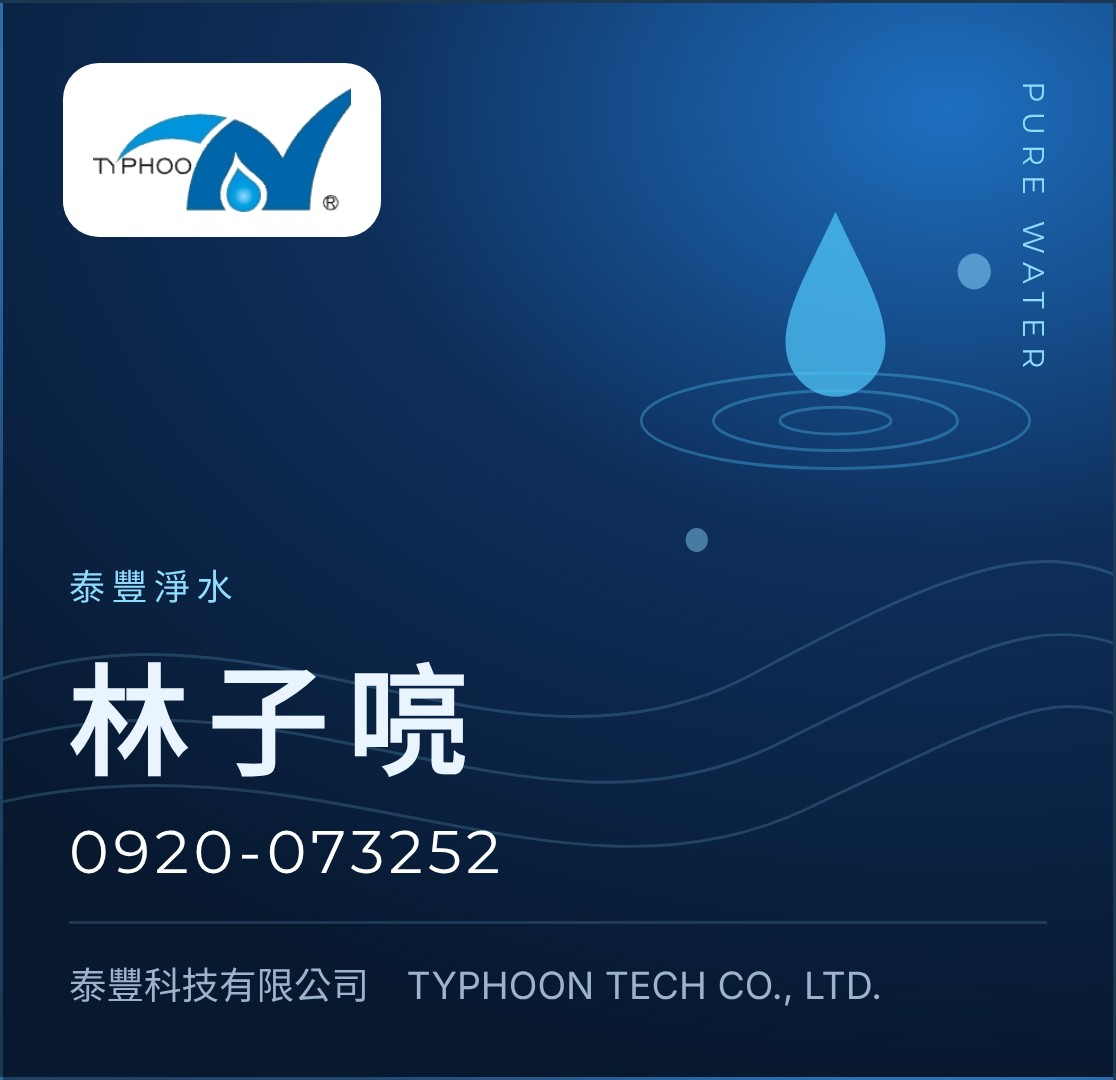
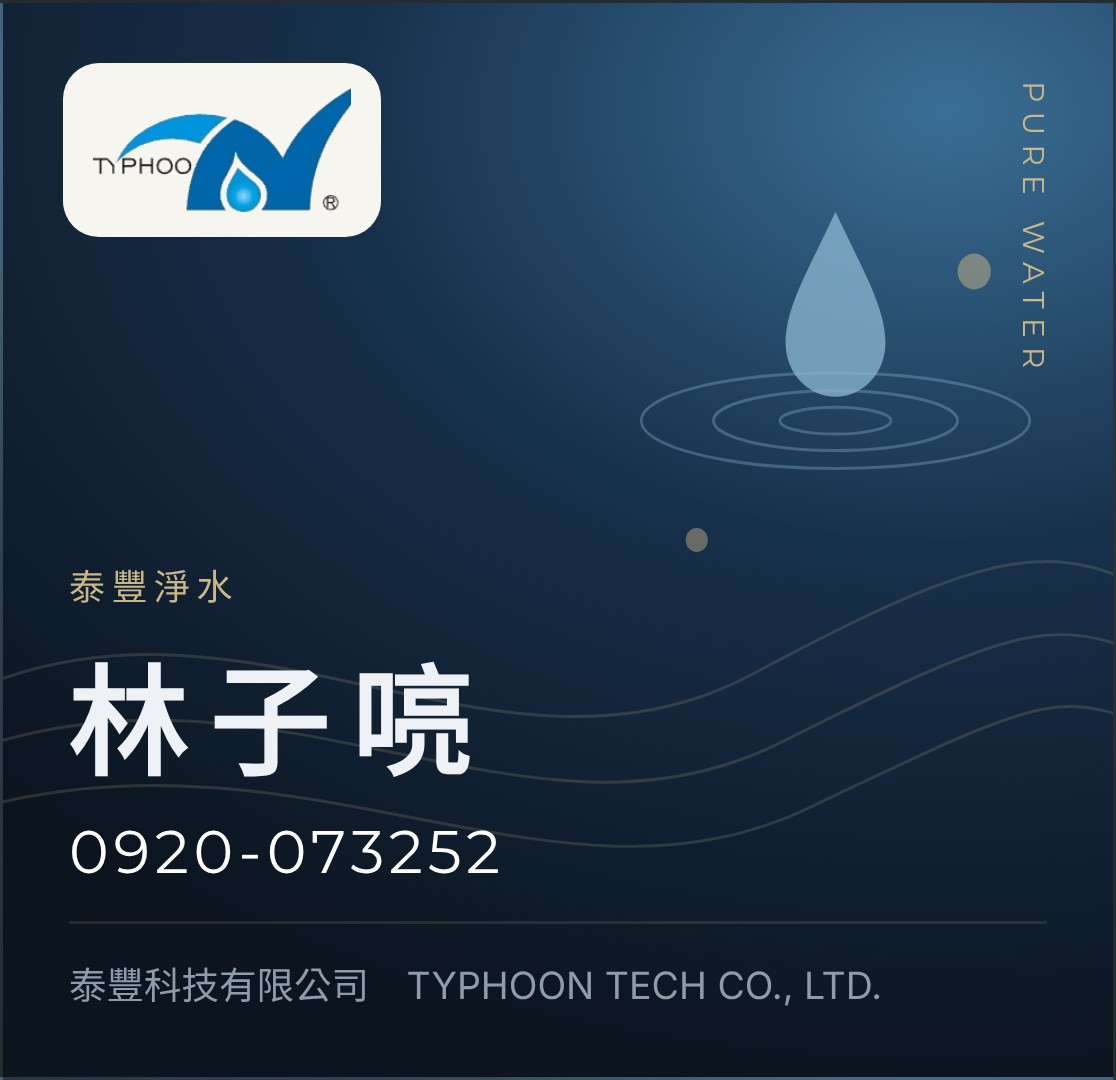
泰豐 v3: refined deep-navy / mist / champagne palette, serif headings
Claude-Session: https://claude.ai/code/session_01KkZnAjjDZFyUNm9XafeBwa

diff --git a/lin/v3/index.html b/lin/v3/index.html
@@ -4,31 +4,31 @@
 <meta charset="UTF-8">
 <meta name="viewport" content="width=device-width, initial-scale=1">
 <title>林子喨｜泰豐淨水 電子名片</title>
-<link href="https://fonts.googleapis.com/css2?family=Noto+Sans+TC:wght@400;500;700;900&family=Montserrat:wght@400;500;600;700&display=swap" rel="stylesheet">
+<link href="https://fonts.googleapis.com/css2?family=Noto+Serif+TC:wght@500;700&family=Noto+Sans+TC:wght@400;500;700;900&family=Montserrat:wght@400;500;600;700&display=swap" rel="stylesheet">
 <script charset="utf-8" src="https://static.line-scdn.net/liff/edge/2/sdk.js"></script>
 <style>
-:root{--bg:#07182F;--panel:#0E2544;--panel2:#13305A;--aqua:#4FC3F7;--aqua2:#8FDCFF;--txt:#EAF4FF;--mute:#9DB3CC;--line:rgba(143,220,255,.16)}
+:root{--bg:#0B141F;--panel:#121E2C;--panel2:#1A293B;--aqua:#8DB8D3;--aqua2:#CBB68A;--txt:#EEF2F6;--mute:#8E9BAB;--line:rgba(203,182,138,.14)}
 *{box-sizing:border-box;margin:0;padding:0}
 body{background:var(--bg);color:var(--txt);font-family:"Noto Sans TC",system-ui,sans-serif;-webkit-font-smoothing:antialiased;padding-bottom:92px}
 .wrap{max-width:440px;margin:0 auto;padding:16px 14px}
 /* 主卡 */
-.hero{position:relative;border-radius:24px;overflow:hidden;min-height:360px;background:radial-gradient(120% 90% at 85% 10%,#1E6FC0 0%,#0E2E5A 45%,#07182F 100%);border:1px solid var(--line)}
+.hero{position:relative;border-radius:24px;overflow:hidden;min-height:360px;background:radial-gradient(120% 90% at 85% 10%,#3A6E96 0%,#17304A 45%,#0B141F 100%);border:1px solid var(--line)}
 .hero svg{position:absolute;inset:0;width:100%;height:100%}
-.logo{position:absolute;left:20px;top:20px;background:#fff;border-radius:12px;padding:8px 10px}
+.logo{position:absolute;left:20px;top:20px;background:#F7F5F0;border-radius:12px;padding:8px 10px}
 .logo img{display:block;width:86px}
 .tag{position:absolute;right:20px;top:26px;font-family:Montserrat;font-size:10px;letter-spacing:.3em;color:var(--aqua2);writing-mode:vertical-rl}
 .who{position:absolute;left:22px;bottom:22px;right:22px}
 .who .role{font-size:12px;color:var(--aqua2);letter-spacing:.18em}
-.who .nm{font-size:40px;font-weight:900;letter-spacing:.16em;margin-top:6px}
+.who .nm{font-family:"Noto Serif TC",serif;font-size:40px;font-weight:700;letter-spacing:.18em;margin-top:6px}
 .who .ph{font-family:Montserrat;font-size:20px;letter-spacing:.08em;margin-top:6px;color:#fff}
 .who .co{font-size:12.5px;color:var(--mute);margin-top:10px;padding-top:10px;border-top:1px solid var(--line)}
 /* 分頁 */
 .tabs{display:flex;gap:6px;background:var(--panel);border:1px solid var(--line);border-radius:999px;padding:5px;margin:16px 0 14px;position:sticky;top:8px;z-index:3}
 .tabs button{flex:1;border:none;background:transparent;color:var(--mute);font:inherit;font-size:14px;padding:9px;border-radius:999px;cursor:pointer}
-.tabs button.on{background:linear-gradient(120deg,#1E6FC0,var(--aqua));color:#fff;font-weight:700}
+.tabs button.on{background:linear-gradient(120deg,#2E5878,#4D82A8);color:#fff;font-weight:700}
 .pane{display:none}.pane.on{display:block}
 .box{background:var(--panel);border:1px solid var(--line);border-radius:18px;padding:16px;margin-bottom:12px}
-.box h3{font-size:15px;margin-bottom:10px;color:#fff}
+.box h3{font-family:"Noto Serif TC",serif;font-weight:700;font-size:15.5px;letter-spacing:.06em;margin-bottom:10px;color:#fff}
 .box p{font-size:13px;color:var(--mute);line-height:1.8}
 .stats{display:grid;grid-template-columns:repeat(3,1fr);gap:8px}
 .stats div{background:var(--panel2);border-radius:14px;padding:12px 6px;text-align:center}
@@ -40,25 +40,25 @@ body{background:var(--bg);color:var(--txt);font-family:"Noto Sans TC",system-ui,
 .steps{counter-reset:s}
 .steps li{list-style:none;display:flex;gap:12px;padding:10px 0;border-bottom:1px dashed var(--line);font-size:13px}
 .steps li:last-child{border:none}
-.steps li::before{counter-increment:s;content:counter(s);width:26px;height:26px;border-radius:50%;background:rgba(79,195,247,.18);color:var(--aqua2);display:grid;place-items:center;font-family:Montserrat;font-weight:700;flex:0 0 auto}
+.steps li::before{counter-increment:s;content:counter(s);width:26px;height:26px;border-radius:50%;background:rgba(203,182,138,.16);color:var(--aqua2);display:grid;place-items:center;font-family:Montserrat;font-weight:700;flex:0 0 auto}
 .steps b{display:block;color:#fff}.steps small{color:var(--mute)}
 .row{display:flex;justify-content:space-between;gap:12px;padding:11px 0;border-bottom:1px solid var(--line);font-size:13px}
 .row:last-child{border:none}.row span{color:var(--mute);flex:0 0 auto}.row a{color:var(--aqua2);text-decoration:none}
 .btns{display:grid;grid-template-columns:1fr 1fr;gap:8px}
 .btns button,.btns a{border:1px solid var(--line);background:var(--panel2);color:#fff;border-radius:14px;padding:13px 8px;font:inherit;font-size:13.5px;text-align:center;text-decoration:none;cursor:pointer}
-.slogan{text-align:center;font-size:14px;letter-spacing:.14em;color:var(--aqua2);margin:18px 0 4px}
-.dock{position:fixed;left:0;right:0;bottom:0;padding:10px 14px calc(10px + env(safe-area-inset-bottom));background:rgba(7,24,47,.92);backdrop-filter:blur(10px);border-top:1px solid var(--line);display:flex;gap:8px;justify-content:center;z-index:5}
+.slogan{font-family:"Noto Serif TC",serif;text-align:center;font-size:14px;letter-spacing:.14em;color:var(--aqua2);margin:18px 0 4px}
+.dock{position:fixed;left:0;right:0;bottom:0;padding:10px 14px calc(10px + env(safe-area-inset-bottom));background:rgba(11,20,31,.92);backdrop-filter:blur(10px);border-top:1px solid var(--line);display:flex;gap:8px;justify-content:center;z-index:5}
 .dock a,.dock button{flex:1;max-width:140px;border:none;border-radius:14px;padding:12px 6px;font:inherit;font-weight:700;font-size:13.5px;text-align:center;text-decoration:none;cursor:pointer}
-.dock .call{background:var(--panel2);color:#fff}.dock .line{background:#06C755;color:#fff}.dock .share{background:linear-gradient(120deg,#1E6FC0,var(--aqua));color:#fff}
-.share1{width:100%;border:1px dashed rgba(143,220,255,.45);background:transparent;color:var(--aqua2);border-radius:14px;padding:12px;font:inherit;font-size:13.5px;margin-bottom:12px;cursor:pointer}
+.dock .call{background:var(--panel2);color:#fff}.dock .line{background:#1F8F50;color:#fff}.dock .share{background:linear-gradient(120deg,#2E5878,#4D82A8);color:#fff}
+.share1{width:100%;border:1px dashed rgba(203,182,138,.45);background:transparent;color:var(--aqua2);border-radius:14px;padding:12px;font:inherit;font-size:13.5px;margin-bottom:12px;cursor:pointer}
 .sheet{position:fixed;inset:0;background:rgba(0,0,0,.55);display:none;align-items:flex-end;justify-content:center;z-index:20}
 .sheet.on{display:flex}
 .sheet .panel{width:100%;max-width:440px;background:var(--panel);border-radius:22px 22px 0 0;padding:16px 14px calc(18px + env(safe-area-inset-bottom));border:1px solid var(--line)}
 .sheet .h{display:flex;justify-content:space-between;font-weight:700;margin:2px 4px 12px}.sheet .x{cursor:pointer;color:var(--mute)}
 .sheet button{display:block;width:100%;text-align:left;background:var(--panel2);border:1px solid var(--line);color:#fff;border-radius:14px;padding:12px 14px;margin-bottom:8px;font:inherit;cursor:pointer}
 .sheet button b{display:block;font-size:14.5px}.sheet button small{font-size:11.5px;color:var(--mute)}
-.sheet button[data-k=all]{background:linear-gradient(120deg,#1E6FC0,#4FC3F7);border:none}.sheet button[data-k=all] small{color:#E3F4FF}
-.toast{position:fixed;left:50%;bottom:90px;transform:translateX(-50%) translateY(20px);background:#fff;color:#07182F;font-size:13px;padding:10px 16px;border-radius:999px;opacity:0;transition:.25s;pointer-events:none;max-width:88%;text-align:center;z-index:9}
+.sheet button[data-k=all]{background:linear-gradient(120deg,#2E5878,#4D82A8);border:none}.sheet button[data-k=all] small{color:#F3EEE2}
+.toast{position:fixed;left:50%;bottom:90px;transform:translateX(-50%) translateY(20px);background:#fff;color:#0B141F;font-size:13px;padding:10px 16px;border-radius:999px;opacity:0;transition:.25s;pointer-events:none;max-width:88%;text-align:center;z-index:9}
 .toast.on{opacity:1;transform:translateX(-50%) translateY(0)}
 </style>
 </head>
@@ -66,10 +66,10 @@ body{background:var(--bg);color:var(--txt);font-family:"Noto Sans TC",system-ui,
 <div class="wrap">
   <section class="hero" id="cardshot">
     <svg viewBox="0 0 400 360" preserveAspectRatio="none" aria-hidden="true">
-      <g fill="none" stroke="#8FDCFF" stroke-opacity=".18"><path d="M-10 230 C 90 190, 180 270, 270 225 S 380 180, 420 200"/><path d="M-10 250 C 100 215, 190 290, 280 248 S 380 205, 420 222"/><path d="M-10 270 C 110 240, 200 310, 290 270 S 380 230, 420 245"/></g>
-      <g fill="none" stroke="#4FC3F7" stroke-opacity=".35"><ellipse cx="300" cy="140" rx="70" ry="16"/><ellipse cx="300" cy="140" rx="44" ry="10"/><ellipse cx="300" cy="140" rx="20" ry="4.5"/></g>
-      <path d="M300 70 C 310 90, 318 102, 318 114 A18 18 0 0 1 282 114 C 282 102, 290 90, 300 70Z" fill="#4FC3F7" fill-opacity=".75"/>
-      <circle cx="350" cy="90" r="6" fill="#8FDCFF" fill-opacity=".5"/><circle cx="250" cy="180" r="4" fill="#8FDCFF" fill-opacity=".45"/>
+      <g fill="none" stroke="#CBB68A" stroke-opacity=".18"><path d="M-10 230 C 90 190, 180 270, 270 225 S 380 180, 420 200"/><path d="M-10 250 C 100 215, 190 290, 280 248 S 380 205, 420 222"/><path d="M-10 270 C 110 240, 200 310, 290 270 S 380 230, 420 245"/></g>
+      <g fill="none" stroke="#8DB8D3" stroke-opacity=".35"><ellipse cx="300" cy="140" rx="70" ry="16"/><ellipse cx="300" cy="140" rx="44" ry="10"/><ellipse cx="300" cy="140" rx="20" ry="4.5"/></g>
+      <path d="M300 70 C 310 90, 318 102, 318 114 A18 18 0 0 1 282 114 C 282 102, 290 90, 300 70Z" fill="#8DB8D3" fill-opacity=".75"/>
+      <circle cx="350" cy="90" r="6" fill="#CBB68A" fill-opacity=".5"/><circle cx="250" cy="180" r="4" fill="#CBB68A" fill-opacity=".45"/>
     </svg>
[1 lines of base64/hex data omitted]
     <div class="tag">PURE WATER</div>
@@ -140,21 +140,21 @@ body{background:var(--bg);color:var(--txt);font-family:"Noto Sans TC",system-ui,
 <script>
 const CONFIG = {LIFF_ID:"", CARD_URL:"https://sunghan69-sudo.github.io/card/lin/v3/", LINE_URL:"https://line.me/ti/p/0ij0oKbHrr"};
 const TEL="tel:0920073252", MAP="https://www.google.com/maps/search/?api=1&query="+encodeURIComponent("彰化縣和美鎮彰美路三段83號"), WEB="https://www.typ-hoon.com.tw";
-const BG="#0E2544", AQ="#8FDCFF", MU="#9DB3CC", BL="#1E6FC0";
+const BG="#121E2C", AQ="#CBB68A", MU="#8E9BAB", BL="#3A6E96";
 const page=k=>CONFIG.CARD_URL+"?p="+k;
-const T=(text,o={})=>Object.assign({type:"text",text,wrap:true,color:"#EAF4FF",size:"sm"},o);
+const T=(text,o={})=>Object.assign({type:"text",text,wrap:true,color:"#EEF2F6",size:"sm"},o);
 const btn=(label,uri,primary)=>({type:"button",style:primary?"primary":"secondary",color:primary?BL:undefined,height:"sm",action:{type:"uri",label,uri}});
 const row=(k,v)=>({type:"box",layout:"baseline",spacing:"md",contents:[T(k,{color:MU,size:"xs",flex:2}),T(v,{size:"xs",flex:5})]});
 function shell(tag,title,body,footer){return {type:"bubble",size:"mega",styles:{body:{backgroundColor:BG},footer:{backgroundColor:BG}},
-  body:{type:"box",layout:"vertical",spacing:"md",paddingAll:"20px",contents:[T(tag,{color:AQ,size:"xxs"}),T(title,{weight:"bold",size:"lg",color:"#FFFFFF"}),{type:"separator",color:"#2A4B78"},...body]},
+  body:{type:"box",layout:"vertical",spacing:"md",paddingAll:"20px",contents:[T(tag,{color:AQ,size:"xxs"}),T(title,{weight:"bold",size:"lg",color:"#FFFFFF"}),{type:"separator",color:"#2A3A4E"},...body]},
   footer:{type:"box",layout:"horizontal",spacing:"sm",paddingAll:"14px",contents:footer}}}
 const B={
-  card:{type:"bubble",size:"mega",styles:{footer:{backgroundColor:"#07182F"}},
+  card:{type:"bubble",size:"mega",styles:{footer:{backgroundColor:"#0B141F"}},
     hero:{type:"image",url:CONFIG.CARD_URL+"card.jpg",size:"full",aspectRatio:"1116:1080",aspectMode:"cover",action:{type:"uri",label:"看完整名片",uri:CONFIG.CARD_URL}},
     footer:{type:"box",layout:"horizontal",spacing:"sm",paddingAll:"14px",contents:[btn("打電話",TEL,true),btn("看完整名片",CONFIG.CARD_URL)]}},
   about:shell("01 關於","泰豐淨水",[
     T("彰化在地淨水品牌，生產逆滲透純水機、飲水機及商業、工業用 RO 設備，從設計、規劃到安裝一手包辦。",{color:MU,size:"xs"}),
-    {type:"box",layout:"horizontal",spacing:"sm",contents:[["1998","成立"],["ISO","9001 認證"],["3M","櫻花經銷"]].map(([a,b])=>({type:"box",layout:"vertical",backgroundColor:"#13305A",cornerRadius:"10px",paddingAll:"10px",contents:[T(a,{color:AQ,weight:"bold",align:"center",size:"md"}),T(b,{color:MU,size:"xxs",align:"center"})]}))}
+    {type:"box",layout:"horizontal",spacing:"sm",contents:[["1998","成立"],["ISO","9001 認證"],["3M","櫻花經銷"]].map(([a,b])=>({type:"box",layout:"vertical",backgroundColor:"#1A293B",cornerRadius:"10px",paddingAll:"10px",contents:[T(a,{color:AQ,weight:"bold",align:"center",size:"md"}),T(b,{color:MU,size:"xxs",align:"center"})]}))}
   ],[btn("看官網",WEB,true),btn("更多介紹",page("p1"))]),
   svc:shell("02 服務","產品與服務流程",[
     T("RO 純水機・飲水機・全戶淨水／軟水・Panasonic 電解水機",{size:"xs"}),
